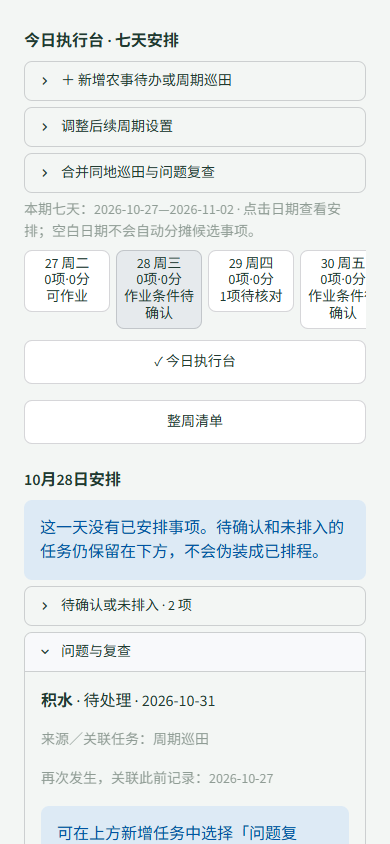
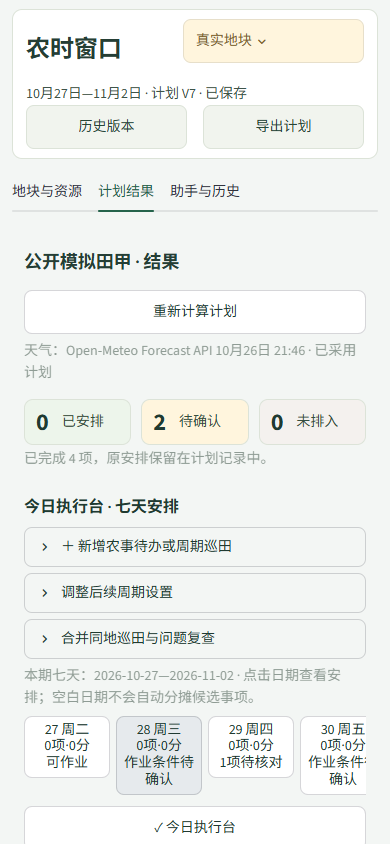
docs: record v15 regression and product acceptance evidence

diff --git a/scripts/check_workbench_viewports.py b/scripts/check_workbench_viewports.py
@@ -16,7 +16,6 @@ import re
 from pathlib import Path
 
 from playwright.sync_api import Error as PlaywrightError
-from playwright.sync_api import TimeoutError as PlaywrightTimeoutError
 from playwright.sync_api import sync_playwright
 
 VIEWPORTS = [(1440, 900), (1158, 714), (900, 844), (390, 844), (360, 800)]
@@ -43,38 +42,18 @@ def main() -> int:
             if width < 1000:
                 page.get_by_role("tab", name="计划结果").click()
             page.get_by_text("今日执行台", exact=False).first.wait_for()
-            page.wait_for_timeout(600)
             body = page.locator("body").inner_text()
             has_workbench = "今日执行台" in body
-            ui_retries = 0
             day_heading = page.get_by_role(
                 "heading", name=re.compile(r"^(今日|\d{2}月\d{2}日)安排$")
             )
             day_heading.wait_for(state="visible", timeout=15000)
-            for attempt in range(2):
-                try:
-                    page.get_by_role("button", name="整周清单").click(timeout=10000)
-                    day_heading.wait_for(state="hidden", timeout=10000)
-                    page.get_by_role("button", name="今日执行台").click(timeout=10000)
-                    day_heading.wait_for(state="visible", timeout=10000)
-                    break
-                except PlaywrightTimeoutError:
-                    if attempt:
-                        raise
-                    # A Streamlit rerender can replace the button tree between clicks.
-                    # Record the first failed attempt and retry in a new browser session.
-                    ui_retries = 1
-                    page.reload(wait_until="networkidle")
-                    if width < 1000:
-                        page.get_by_role("tab", name="计划结果").click()
-                    day_heading.wait_for(state="visible", timeout=15000)
-            has_week = True
-            page.wait_for_timeout(600)
             dates = page.locator('[class*="st-key-date_strip"] [data-testid="stButton"] button')
             date_count = dates.count()
             if date_count >= 2:
                 dates.nth(1).click()
                 page.wait_for_timeout(800)
+                day_heading.wait_for(state="visible", timeout=15000)
             page.screenshot(path=str(args.output_dir / f"workbench_{width}x{height}.png"))
             geometry = page.evaluate(
                 """() => ({
@@ -88,25 +67,49 @@ def main() -> int:
                     .map(el => (el.innerText || el.ariaLabel || '').slice(0, 40))
                 })"""
             )
+            page.close()
+
+            # A fresh browser session avoids relying on Streamlit's one-pass
+            # button labels while switching back and forth between the views.
+            week_page = browser.new_page(viewport={"width": width, "height": height})
+            week_page.goto(args.url, wait_until="networkidle")
+            if width < 1000:
+                week_page.get_by_role("tab", name="计划结果").click()
+            week_heading = week_page.get_by_role(
+                "heading", name=re.compile(r"^(今日|\d{2}月\d{2}日)安排$")
+            )
+            week_heading.wait_for(state="visible", timeout=15000)
+            week_page.get_by_role("button", name="整周清单").click()
+            week_heading.wait_for(state="hidden", timeout=15000)
+            week_page.wait_for_timeout(600)
+            has_week = not week_heading.is_visible()
+            week_page.close()
             rows.append(
                 {
                     "viewport": f"{width}x{height}",
                     "workbench_visible": has_workbench,
                     "week_view_visible": has_week,
                     "date_buttons": date_count,
-                    "ui_retries": ui_retries,
+                    "ui_retries": 0,
                     "horizontal_overflow": geometry["content"] > geometry["viewport"] + 1,
                     "small_button_labels": geometry["smallButtons"],
                 }
             )
-            page.close()
         browser.close()
 
     (args.output_dir / "viewport_results.json").write_text(
         json.dumps(rows, ensure_ascii=False, indent=2), encoding="utf-8"
     )
     print(json.dumps(rows, ensure_ascii=False, indent=2))
-    return int(any(not row["workbench_visible"] or row["horizontal_overflow"] for row in rows))
+    return int(
+        any(
+            not row["workbench_visible"]
+            or not row["week_view_visible"]
+            or row["date_buttons"] != 7
+            or row["horizontal_overflow"]
+            for row in rows
+        )
+    )
 
 
 if __name__ == "__main__":

diff --git a/STATUS.md b/STATUS.md
@@ -1,46 +1,46 @@
 # 农时窗口当前进度
 
-这是项目进度的唯一当前入口。2026-10-27 核对 v14 冻结回归和七天工作台产品验收；核心摘要与 `reports/current_status.json` 同步。README、任务清单和旧报告从本页取数。判断新进度前先运行文末只读核查命令。
+这是项目进度的唯一当前入口。2026-10-27 核对 v15 冻结回归和七天工作台产品验收；核心摘要与 `reports/current_status.json` 同步。README、任务清单和旧报告从本页取数。判断新进度前先运行文末只读核查命令。
 
 <!-- CURRENT_STATUS:START -->
 **最新冻结结论：内部已知题自动阶段验收通过。**
 
-- 批次：`sealed-internal-regression-v14-20261027`。
-- 冻结代码：`5a65b592e3047d29357bdbd80bc5a942f47653c1`。
+- 批次：`sealed-internal-regression-v15-20261027`。
+- 冻结代码：`7593b477ee5191587af56716871f3dd383bfb3c4`。
 - 证据范围：`internal_regression_after_v1`；不属于独立盲测或田间验证。
 
 | 组别 | 主案例通过 | 边界运行 |
 | --- | ---: | --- |
 | A 直接生成 | 1/30 | 未运行（协议仅对 C 组要求） |
-| B 模型加检索 | 9/30 | 未运行（协议仅对 C 组要求） |
+| B 模型加检索 | 8/30 | 未运行（协议仅对 C 组要求） |
 | C 完整 Agent | 30/30 | 18/18 通过 |
 
 C 组硬约束违规 0；边界 6/6 题均连续通过三次。
-冻结版本的自动测试记录为 644 项通过；这是对应版本的历史运行记录，不表示当前工作区已重新运行。
-公开证据：[本批次报告](reports/internal_regression_v14_20261027.md)。
+冻结版本的自动测试记录为 645 项通过；这是对应版本的历史运行记录，不表示当前工作区已重新运行。
+公开证据：[本批次报告](reports/internal_regression_v15_20261027.md)。
 <!-- CURRENT_STATUS:END -->
 
 ## 已经验证到哪里
 
-- v14 的 90 个主案例与 18 次边界首次结果均已保存并核验指纹。C 主案例 30/30、边界 18/18、硬约束违规 0、必需引用 21/21、同服务商 AI 辅助语义支持 41/41。v13 原始 29/30 失败与修复关系另存，不覆盖首次评分。
-- 候选代码 `5a65b59` 的完整自动回归 **644 passed**，Ruff、格式、环境及差异检查通过。公开模拟农情下，桌面和窄屏浏览器分别走过真实 DeepSeek、真实天气、V1、反馈、自动预览、V2及后续版本、重启、历史与导出；五视口读屏复验无页面横向溢出。详见[当前产品验收报告](reports/product_acceptance_20261027.md)。
-- **完整产品验收仍为证据不足。** 全流程可复跑浏览器脚本、部分故障页面重试、合并出行和旧库重复迁移的实际操作、全面键盘及文字对比度审计尚缺。当前功能代码和内部分数不能代替这些材料。
+- v15 的 90 个主案例与 18 次边界首次结果均已保存并核验指纹。C 主案例 30/30、边界 18/18、硬约束违规 0、必需引用 21/21、同服务商 AI 辅助语义支持 41/41。v13 原始 29/30 失败、v14 通过和 v15 复验分别保留，不覆盖首次评分。
+- 冻结代码 `7593b47` 的完整自动回归 **645 passed**，Ruff、格式、环境及差异检查通过。旧 v1/v2 SQLite 在工作台升级前生成备份，连续打开两次后旧计划和首次备份保持不变。公开模拟农情下，桌面和窄屏浏览器走过真实 DeepSeek、真实天气、V1、反馈、自动预览、V2及后续版本、重启、历史与导出；完整主流程在 v14 运行时，v15 另复验五视口和无密钥页面。详见[当前产品验收报告](reports/product_acceptance_20261027.md)。
+- **完整产品验收仍为证据不足。** 全流程可复跑浏览器脚本、部分故障页面重试、合并出行页面操作、全面键盘及文字对比度审计尚缺。当前功能代码和内部分数不能代替这些材料。
 - 模型评测 token 汇总不完整，费用未知；真实接口单次联调不等于长期可用率。农业适用性未获独立专业签认。
 
 ## 工作区和证据版本必须分开
 
 | 位置/版本 | 角色与边界 |
 | --- | --- |
-| v14 冻结提交 `5a65b59` | 当前内部已知题自动验收与 644 项自动测试的源码版本；后续文档和只读浏览器脚本不改变该运行时源码 |
+| v15 冻结提交 `7593b47` | 当前内部已知题自动验收与 645 项自动测试的源码版本；后续文档和只读浏览器脚本不改变该运行时源码 |
 | `codex/weekly-task-content` | 七天工作台验收与修复工作树；公开证据、报告、状态更新在此形成，再同步主工作区 |
 | 主工作区 `main`、GitHub `main`、Gitee `master` | 以实际快进与远端核对结果为准；不得仅凭本工作树成绩宣称远端已经更新 |
-| 其他历史工作树 | 保留历史文件和源码；如果有 `reports/current_status.json`，同步当前入口，历史源码不继承 v14 成绩 |
+| 其他历史工作树 | 保留历史文件和源码；如果有 `reports/current_status.json`，同步当前入口，历史源码不继承 v15 成绩 |
 
-v12 的旧代码与历史成绩保存在[报告索引](reports/README.md)；v13 首次失败及 v14 通过也按独立批次保留。当前源码和每个工作区差异，以 `check_progress.py --json` 实时输出为准。
+v12 的旧代码与历史成绩保存在[报告索引](reports/README.md)；v13 首次失败、v14 通过及 v15 复验按独立批次保留。当前源码和每个工作区差异，以 `check_progress.py --json` 实时输出为准。
 
 ## 仍待完成
 
-- 本轮产品验收缺项按[逐项报告](reports/product_acceptance_20261027.md)补齐，完成后在当前代码上复验；不因 v14 模型分数通过而勾销页面与故障验收。
+- 本轮产品验收缺项按[逐项报告](reports/product_acceptance_20261027.md)补齐，完成后在当前代码上复验；不因 v15 模型分数通过而勾销页面与故障验收。
 - D01/D03：独立留出设计、双人人工复核/评分与分歧处理；现有已知题及8个公开模拟替代题不改称独立评测。
 - D04：至少5名独立体验者的正式体验记录及约定完成率。
 - A03/A04：七张候选规则的独立农艺适用性复核与正式签认；C11/C31限观察、C23限既有沟渠清理候选，C18/C19/C20/C24暂缓自动适用。
@@ -50,7 +50,7 @@ v12 的旧代码与历史成绩保存在[报告索引](reports/README.md)；v13 
 
 ## 旧材料如何使用
 
-[报告索引](reports/README.md)按批次保留 v1—v14，旧失败不是今日结论，新通过也不覆盖旧失败。
+[报告索引](reports/README.md)按批次保留 v1—v15，旧失败不是今日结论，新通过也不覆盖旧失败。
 任务清单保留编号、负责人、原期限和要求，只引用本页的当前状态。20261022的两份Word和一份PPT是历史快照，其旧测试数与“尚未运行”描述不得直接复用于新版汇报。
 
 已完成20261024新版两份Word和一份PPT，见[材料版本说明](<C:/Users/HUAWEI/Desktop/homework/农时窗口_材料版本说明.md>)及[更新核查记录](reports/material_refresh_20261024.md)。研究方向和工程进度分别表述，所有带日期的汇报均为当时快照。

diff --git a/reports/internal_regression_v15_20261027.md b/reports/internal_regression_v15_20261027.md
@@ -1,0 +1,19 @@
+# v15 内部已知题回归与旧库备份修复
+
+> 冻结验收快照：v15 / `7593b47`。当前工作区和产品验收范围见 [STATUS.md](../STATUS.md)。
+
+**C 组通过内部自动阶段验收。** 冻结提交 `7593b477ee5191587af56716871f3dd383bfb3c4` 修复旧 v1/v2 SQLite 计划库在工作台增量建表前没有备份的问题。新增回归先复现失败，修复后聚焦检查通过；公开模拟旧库连续打开两次，v1/v2 计划仍可读取，首次备份未被覆盖。v14 的首次评分保持原样，见[前一批报告](internal_regression_v14_20261027.md)。
+
+四份题目与约束输入、模型设置、评分协议及依赖指纹与 v14 相同；已知暴露记录新增 v14 结果和本次修复。没有按 v14 分数修改题目或评分规则。30 个主案例各运行 A/B/C，6 个边界案例仅 C 组三次，共 108 条首次记录；结果 ID 和私有组别映射各 108 个且唯一，运行指纹有效。盲化视图不含组别、调用次数、耗时和工具日志。86 条有适用主张记录由同服务商模型辅助复核，其余 22 条保留无适用主张或明确状态；首次评分只执行一次。
+
+| 组别 | 30 个主案例首次判定 | 边界运行 |
+| --- | --- | --- |
+| A：直接生成 | 1 通过、20 失败、9 证据不足 | 协议不要求 |
+| B：同条件检索增强 | 8 通过、20 失败、2 证据不足 | 协议不要求 |
+| C：完整 Agent | **30/30 通过** | **18/18**；6 题均三次通过 |
+
+C 组必需任务 33/33、反馈一致性 6/6、专属流程 69/69；硬约束违规 **0**。主案例引用定位 15/15，合并边界后 **21/21**；主案例语义支持 26/26，合并边界后 **41/41**；严重无依据建议 **0**、无关键待复核项。C 主案例本地运行耗时中位数 **2.35 秒**、P95 **6.98 秒**；46 次模型请求、91 次工具执行。token 汇总缺失，费用**未知**，不记为零。
+
[1 lines of base64/hex data omitted]
+
+本成绩含 8 个公开模拟替代题，实施者接触过题目及旧批次结果，只称**内部已知题回归**。AI 辅助复核不是农艺专家签认；旧题未覆盖全部 v4 交互、独立农户体验或田间效果。完整产品验收的证据缺口见[产品报告](product_acceptance_20261027.md)。

diff --git a/reports/README.md b/reports/README.md
@@ -6,7 +6,8 @@
 
 | 批次 | C 主案例 | C 边界 | 当时结论及入口 |
 | --- | --- | --- | --- |
-| v14 | 30/30 | 18/18，6题均三次通过 | [通过；当前登记的冻结批次](internal_regression_v14_20261027.md) |
+| v15 | 30/30 | 18/18，6题均三次通过 | [通过；当前登记的冻结批次，含旧库备份修复](internal_regression_v15_20261027.md) |
+| v14 | 30/30 | 18/18，6题均三次通过 | [通过；历史](internal_regression_v14_20261027.md) |
 | v13 | 29/30 | 18/18 | [未通过；首次失败保留](internal_regression_v13_20261027.md) |
 | v12 | 30/30 | 18/18，6题均三次通过 | [通过；历史](internal_regression_v12_20261024.md) |
 | v11 | 30/30 | 18/18 | [通过；历史](internal_regression_v11_20261024.md) |
@@ -21,7 +22,7 @@
 
 ## 工程、页面与历史交接
 
-- [2026-10-27当前阶段产品验收](product_acceptance_20261027.md)：644项自动测试、桌面与窄屏公开模拟闭环、五视口截图、真实模型和天气、故障及性能证据；逐项列明尚缺的产品验收材料。
+- [2026-10-27当前阶段产品验收](product_acceptance_20261027.md)：645项自动测试、桌面与窄屏公开模拟闭环、五视口截图、真实模型和天气、故障及性能证据；逐项列明尚缺的产品验收材料。
 - [2026-10-26七天任务工作台复审与验收](workbench_review_20261026.md)：记录本轮复审发现、回归修复、635项本地测试及页面检查边界；当前工程回归通过，但完整浏览器和外部验收仍未完成。
 - [2026-10-26七天任务与工作台优化实施](workbench_v4_implementation_20261026.md)：记录任务周期与实例、执行内容、问题关联、自定义待办、用户确认的合并出行、七天工作台及本轮自动/浏览器检查；明确在线地名搜索和完整页面验收仍待完成。
 - [2026-10-26真实服务层模拟验收记录](phase_acceptance_20261026.json)：公开模拟农情下的一次真实 DeepSeek 请求及 Open-Meteo 七天天气、V1/V2后端流程记录；含工具参数失败与离线地名索引限制。
